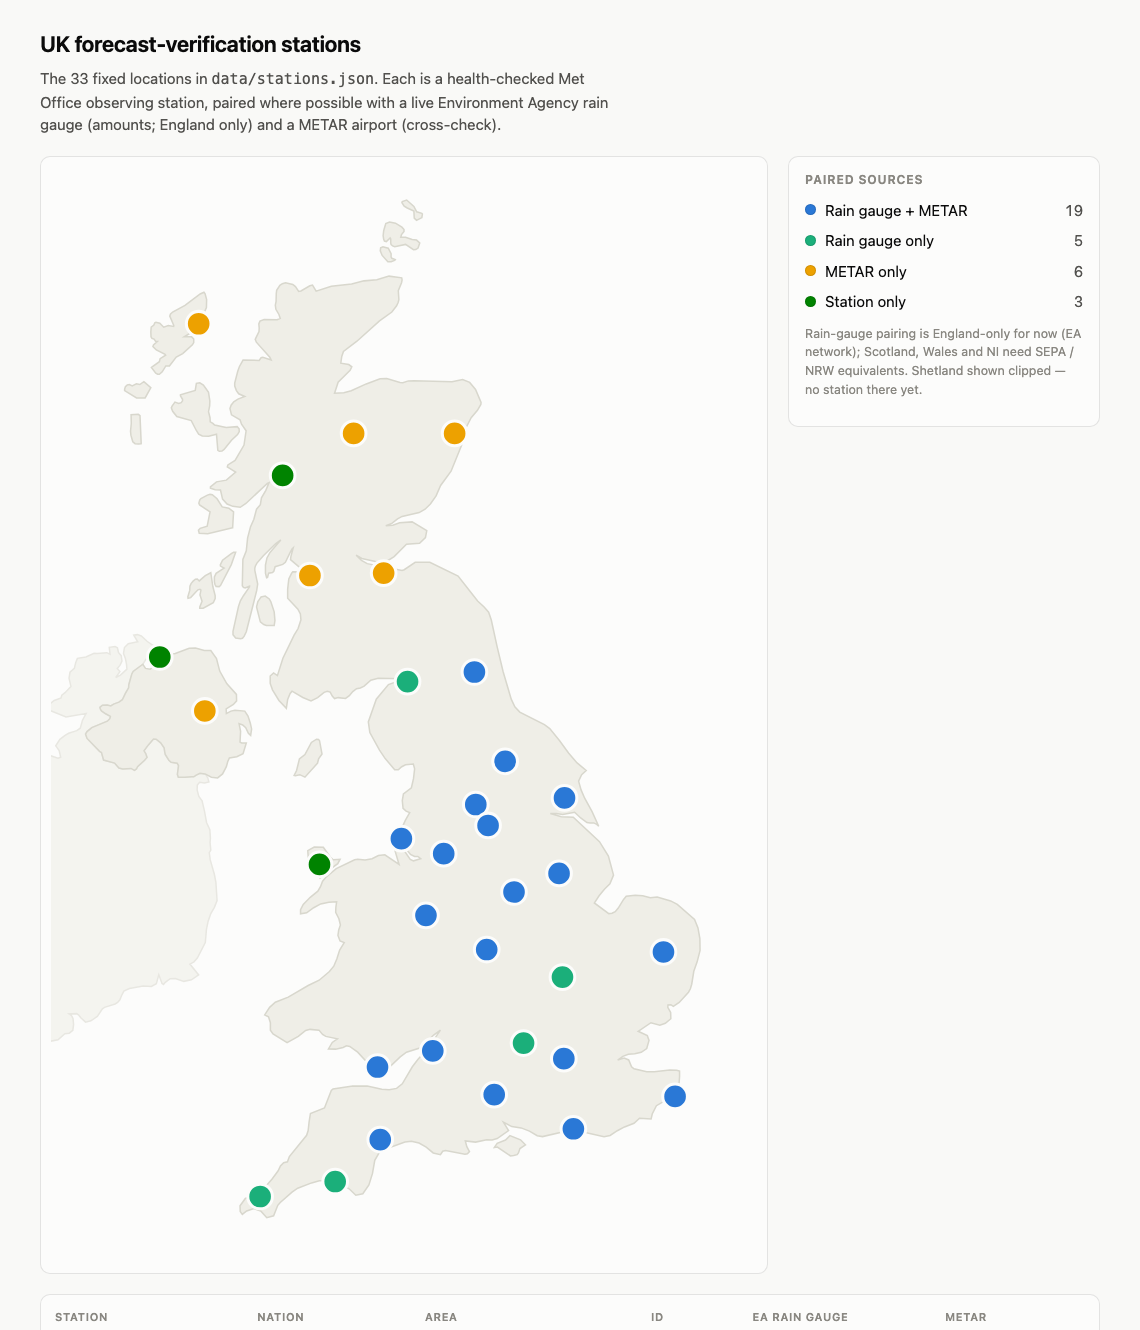
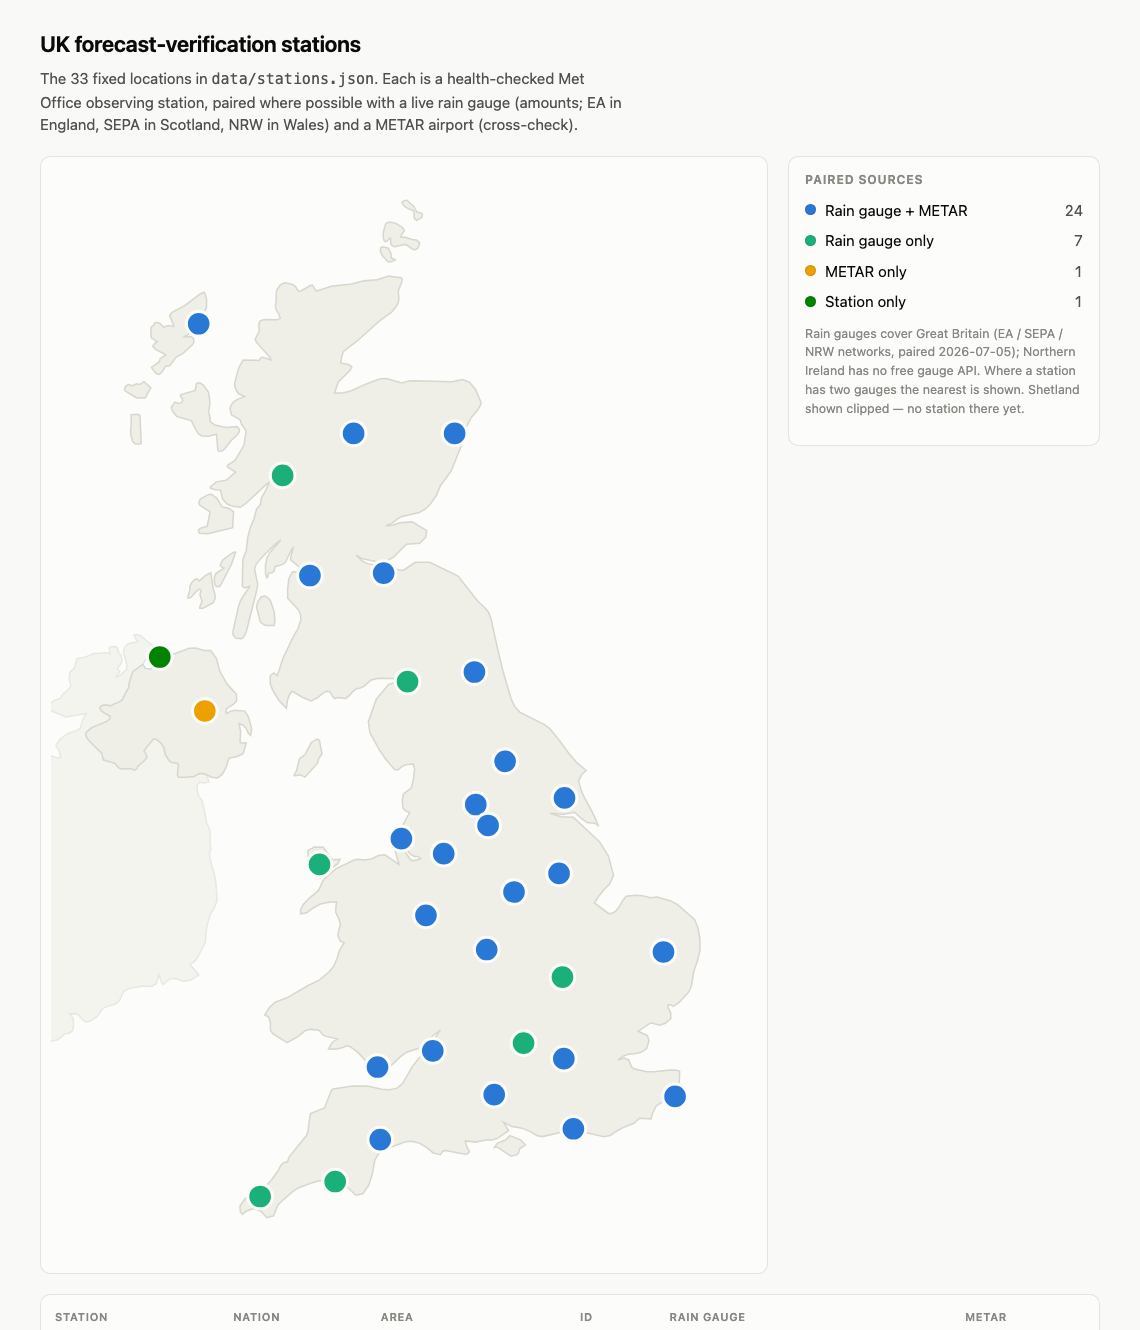
Station map: show SEPA/NRW rain-gauge pairings
Rain-gauge classification now spans all three national networks (EA/SEPA/
NRW); tooltip and table label the network and show the nearest gauge where
a station has two (Cardiff: NRW 4.5 km beats the Somerset EA gauge).
Legend now reads 24 gauge+METAR / 7 gauge-only / Belfast METAR-only /
Derry station-only. Captions updated; HTML + README screenshot
regenerated.

diff --git a/docs/station-map.html b/docs/station-map.html
@@ -67,8 +67,8 @@
   <header>
     <h1>UK forecast-verification stations</h1>
     <p>The 33 fixed locations in <code>data/stations.json</code>. Each is a health-checked Met Office
-       observing station, paired where possible with a live Environment Agency rain gauge
-       (amounts; England only) and a METAR airport (cross-check).</p>
+       observing station, paired where possible with a live rain gauge (amounts; EA in England,
+       SEPA in Scotland, NRW in Wales) and a METAR airport (cross-check).</p>
   </header>
   <div class="layout">
     <div class="card map-card">
@@ -79,8 +79,9 @@
       <div class="card">
         <h2>Paired sources</h2>
         <ul class="leg" id="leg"></ul>
-        <p class="note">Rain-gauge pairing is England-only for now (EA network); Scotland, Wales
-          and NI need SEPA / NRW equivalents. Shetland shown clipped &mdash; no station there yet.</p>
+        <p class="note">Rain gauges cover Great Britain (EA / SEPA / NRW networks, paired
+          2026-07-05); Northern Ireland has no free gauge API. Where a station has two gauges
+          the nearest is shown. Shetland shown clipped &mdash; no station there yet.</p>
       </div>
     </aside>
   </div>
@@ -88,7 +89,7 @@
     <table>
       <thead><tr>
         <th>Station</th><th>Nation</th><th>Area</th><th>ID</th>
-        <th>EA rain gauge</th><th>METAR</th>
+        <th>Rain gauge</th><th>METAR</th>
       </tr></thead>
       <tbody id="rows"></tbody>
     </table>
@@ -96,12 +97,22 @@
 </div></div>
 <script>
 const COAST = {"im":[[[-4.412,54.185],[-4.613,54.058],[-4.696,54.081],[-4.765,54.07],[-4.786,54.074],[-4.747,54.119],[-4.7,54.225],[-4.613,54.266],[-4.509,54.377],[-4.426,54.407],[-4.394,54.404],[-4.376,54.393],[-4.336,54.27],[-4.394,54.225],[-4.412,54.185]]],"uk":[[[-2.669,51.622],[-2.741,51.581],[-2.979,51.539],[-3.08,51.496],[-3.26,51.398],[-3.292,51.39],[-3.562,51.414],[-3.764,51.539],[-3.89,51.591],[-3.944,51.598],[-3.998,51.582],[-4.117,51.567],[-4.235,51.569],[-4.174,51.628],[-4.091,51.661],[-4.275,51.683],[-4.329,51.701],[-4.387,51.74],[-4.531,51.747],[-4.599,51.737],[-4.718,51.683],[-4.901,51.626],[-5.125,51.706],[-5.168,51.74],[-5.168,51.808],[-5.2,51.862],[-5.261,51.879],[-5.182,51.949],[-5.089,51.996],[-4.88,52.043],[-4.559,52.15],[-4.383,52.197],[-4.217,52.277],[-4.149,52.326],[-4.099,52.393],[-4.052,52.475],[-3.98,52.543],[-4.048,52.558],[-4.081,52.608],[-4.07,52.659],[-4.041,52.704],[-4.066,52.761],[-4.117,52.82],[-4.113,52.865],[-4.102,52.916],[-4.228,52.912],[-4.358,52.897],[-4.473,52.862],[-4.585,52.815],[-4.682,52.806],[-4.682,52.845],[-4.639,52.891],[-4.527,52.957],[-4.405,53.013],[-4.361,53.056],[-4.329,53.105],[-4.268,53.145],[-4.109,53.22],[-3.811,53.303],[-3.764,53.308],[-3.645,53.298],[-3.53,53.31],[-3.429,53.341],[-3.325,53.348],[-3.098,53.259],[-3.166,53.395],[-3.065,53.426],[-2.918,53.305],[-2.864,53.292],[-2.749,53.31],[-2.795,53.331],[-2.846,53.332],[-2.914,53.35],[-2.968,53.39],[-3.065,53.513],[-3.058,53.586],[-2.997,53.662],[-2.925,53.733],[-2.983,53.747],[-3.033,53.773],[-3.044,53.845],[-3.026,53.905],[-2.9,53.961],[-2.864,54.044],[-2.846,54.136],[-2.867,54.178],[-2.993,54.171],[-3.055,54.154],[-3.109,54.126],[-3.166,54.127],[-3.321,54.23],[-3.411,54.306],[-3.569,54.468],[-3.591,54.565],[-3.465,54.773],[-3.267,54.907],[-3.037,54.954],[-3.08,54.962],[-3.433,54.964],[-3.551,54.947],[-3.659,54.893],[-3.721,54.876],[-3.782,54.87],[-3.843,54.843],[-3.897,54.805],[-3.958,54.78],[-4.077,54.787],[-4.135,54.778],[-4.174,54.801],[-4.207,54.838],[-4.253,54.846],[-4.304,54.836],[-4.408,54.787],[-4.516,54.758],[-4.646,54.789],[-4.819,54.846],[-4.851,54.825],[-4.891,54.772],[-4.912,54.69],[-5.031,54.761],[-5.135,54.858],[-5.171,54.917],[-5.171,54.985],[-5.117,55.013],[-5.056,54.989],[-4.966,55.15],[-4.786,55.36],[-4.721,55.421],[-4.678,55.501],[-4.685,55.554],[-4.725,55.598],[-4.891,55.699],[-4.891,55.782],[-4.873,55.874],[-4.826,55.929],[-4.808,55.94],[-4.585,55.938],[-4.671,55.968],[-4.844,56.051],[-4.84,56.08],[-4.801,56.159],[-4.819,56.15],[-4.855,56.115],[-4.927,56.028],[-4.97,56.008],[-5.092,55.987],[-5.114,55.945],[-5.135,55.933],[-5.197,55.929],[-5.215,55.89],[-5.229,55.886],[-5.247,55.929],[-5.247,56.001],[-5.222,56.067],[-5.175,56.117],[-4.999,56.233],[-5.085,56.197],[-5.283,56.089],[-5.384,56.02],[-5.409,55.995],[-5.42,55.975],[-5.42,55.952],[-5.373,55.827],[-5.387,55.77],[-5.557,55.39],[-5.589,55.351],[-5.618,55.332],[-5.647,55.327],[-5.729,55.334],[-5.769,55.364],[-5.769,55.395],[-5.751,55.443],[-5.683,55.624],[-5.65,55.674],[-5.603,55.721],[-5.506,55.803],[-5.506,55.808],[-5.575,55.792],[-5.603,55.798],[-5.621,55.813],[-5.611,56.054],[-5.557,56.134],[-5.535,56.251],[-5.488,56.35],[-5.434,56.422],[-5.391,56.514],[-5.33,56.556],[-5.312,56.619],[-5.243,56.686],[-5.189,56.758],[-5.218,56.751],[-5.564,56.567],[-5.654,56.532],[-5.773,56.541],[-5.866,56.561],[-5.938,56.606],[-5.971,56.69],[-6.057,56.692],[-6.133,56.707],[-6.133,56.718],[-6.035,56.764],[-5.877,56.78],[-5.729,56.853],[-5.863,56.903],[-5.852,56.919],[-5.737,56.961],[-5.593,57.103],[-5.56,57.233],[-5.632,57.294],[-5.657,57.334],[-5.794,57.379],[-5.819,57.436],[-5.801,57.468],[-5.758,57.499],[-5.69,57.523],[-5.582,57.547],[-5.679,57.572],[-5.715,57.601],[-5.744,57.643],[-5.744,57.669],[-5.693,57.778],[-5.665,57.823],[-5.607,57.881],[-5.348,57.877],[-5.319,57.903],[-5.29,57.905],[-5.157,57.881],[-5.179,57.907],[-5.395,58.044],[-5.413,58.07],[-5.351,58.143],[-5.348,58.176],[-5.355,58.212],[-5.337,58.238],[-5.269,58.252],[-5.06,58.25],[-5.009,58.263],[-5.031,58.299],[-5.081,58.346],[-5.089,58.384],[-5.078,58.419],[-5.074,58.49],[-5.067,58.52],[-5.017,58.566],[-4.977,58.58],[-4.923,58.589],[-4.808,58.573],[-4.765,58.554],[-4.714,58.509],[-4.678,58.514],[-4.534,58.561],[-4.491,58.568],[-4.433,58.513],[-4.189,58.558],[-3.861,58.577],[-3.663,58.606],[-3.454,58.617],[-3.26,58.65],[-3.055,58.634],[-3.047,58.615],[-3.058,58.589],[-3.109,58.516],[-3.101,58.435],[-3.112,58.408],[-3.137,58.379],[-3.213,58.322],[-3.411,58.24],[-3.775,58.053],[-3.991,57.959],[-4.019,57.914],[-4.034,57.851],[-3.908,57.839],[-3.857,57.818],[-3.886,57.787],[-4.077,57.678],[-4.135,57.577],[-3.987,57.58],[-3.868,57.599],[-3.627,57.662],[-3.404,57.709],[-3.296,57.711],[-3.083,57.674],[-3.037,57.672],[-2.947,57.69],[-2.857,57.691],[-2.245,57.681],[-2.075,57.702],[-1.96,57.676],[-1.867,57.612],[-1.777,57.494],[-1.78,57.474],[-1.834,57.421],[-1.935,57.353],[-2.021,57.259],[-2.047,57.209],[-2.061,57.153],[-2.09,57.103],[-2.259,56.863],[-2.428,56.731],[-2.5,56.636],[-2.594,56.561],[-2.68,56.514],[-2.774,56.483],[-3.047,56.449],[-3.123,56.426],[-3.213,56.384],[-3.31,56.363],[-3.199,56.367],[-3.087,56.389],[-2.885,56.398],[-2.651,56.318],[-2.673,56.254],[-2.767,56.202],[-2.979,56.193],[-3.177,56.08],[-3.267,56.046],[-3.361,56.028],[-3.479,56.034],[-3.695,56.063],[-3.789,56.094],[-3.703,56.044],[-3.609,56.016],[-3.047,55.952],[-3.015,55.959],[-2.839,56.027],[-2.601,56.027],[-2.147,55.903],[-2.018,55.808],[-1.831,55.673],[-1.73,55.619],[-1.654,55.57],[-1.611,55.499],[-1.521,55.259],[-1.424,55.027],[-1.291,54.773],[-1.233,54.704],[-1.154,54.655],[-0.758,54.541],[-0.671,54.504],[-0.517,54.395],[-0.369,54.279],[-0.232,54.19],[-0.085,54.119],[-0.157,54.081],[-0.207,54.022],[-0.167,53.942],[-0.11,53.865],[0.009,53.742],[0.117,53.608],[0.077,53.629],[0.038,53.64],[-0.02,53.638],[-0.074,53.643],[-0.175,53.685],[-0.272,53.737],[-0.463,53.716],[-0.567,53.725],[-0.661,53.725],[-0.484,53.695],[-0.293,53.692],[0.128,53.468],[0.272,53.336],[0.355,53.161],[0.297,53.081],[0.207,53.03],[0.124,52.971],[0.045,52.905],[0.279,52.808],[0.329,52.812],[0.383,52.825],[0.43,52.858],[0.517,52.938],[0.56,52.966],[0.704,52.977],[0.826,52.971],[0.949,52.954],[1.057,52.959],[1.273,52.924],[1.381,52.893],[1.658,52.754],[1.715,52.678],[1.744,52.579],[1.748,52.47],[1.701,52.369],[1.647,52.279],[1.615,52.162],[1.593,52.119],[1.561,52.088],[1.413,51.994],[1.316,51.957],[1.276,51.973],[1.233,51.971],[1.229,51.949],[1.273,51.902],[1.276,51.845],[1.19,51.803],[1.1,51.786],[0.956,51.808],[0.751,51.73],[0.898,51.69],[0.927,51.647],[0.891,51.572],[0.801,51.537],[0.697,51.523],[0.592,51.52],[0.506,51.501],[0.423,51.466],[0.527,51.485],[0.599,51.468],[0.646,51.405],[0.686,51.386],[0.891,51.36],[1.013,51.36],[1.258,51.376],[1.373,51.374],[1.417,51.364],[1.417,51.312],[1.399,51.181],[1.366,51.155],[1.046,51.048],[0.977,50.971],[0.959,50.926],[0.772,50.933],[0.686,50.886],[0.531,50.853],[0.416,50.819],[0.301,50.775],[0.203,50.763],[-0.203,50.815],[-0.452,50.81],[-0.787,50.765],[-0.873,50.774],[-0.999,50.815],[-1.132,50.845],[-1.283,50.857],[-1.417,50.897],[-1.334,50.82],[-1.517,50.747],[-1.6,50.734],[-1.687,50.735],[-1.867,50.714],[-2.032,50.725],[-2.007,50.673],[-1.964,50.628],[-1.996,50.609],[-2.036,50.603],[-2.349,50.638],[-2.396,50.631],[-2.432,50.6],[-2.547,50.616],[-2.659,50.669],[-2.777,50.706],[-2.9,50.723],[-3.001,50.716],[-3.404,50.633],[-3.487,50.548],[-3.526,50.428],[-3.584,50.322],[-3.681,50.241],[-3.793,50.228],[-3.901,50.286],[-4.102,50.348],[-4.174,50.392],[-4.196,50.393],[-4.217,50.378],[-4.297,50.359],[-4.379,50.359],[-4.505,50.341],[-4.729,50.291],[-4.819,50.256],[-5.009,50.161],[-5.049,50.135],[-5.117,50.039],[-5.225,50.022],[-5.323,50.083],[-5.434,50.105],[-5.549,50.083],[-5.621,50.051],[-5.654,50.077],[-5.657,50.131],[-5.571,50.197],[-5.341,50.246],[-5.143,50.374],[-5.042,50.452],[-5.006,50.496],[-4.955,50.524],[-4.894,50.534],[-4.862,50.583],[-4.585,50.777],[-4.559,50.82],[-4.545,50.9],[-4.523,50.977],[-4.297,51.027],[-4.189,51.188],[-4.16,51.201],[-3.843,51.23],[-3.609,51.228],[-3.375,51.197],[-3.256,51.194],[-3.137,51.206],[-3.044,51.249],[-2.882,51.405],[-2.792,51.475],[-2.687,51.537],[-2.59,51.609],[-2.432,51.74],[-2.54,51.695],[-2.669,51.622]],[[-4.196,53.322],[-4.156,53.303],[-4.048,53.306],[-4.084,53.265],[-4.199,53.218],[-4.279,53.173],[-4.372,53.134],[-4.419,53.178],[-4.473,53.176],[-4.552,53.261],[-4.567,53.386],[-4.462,53.419],[-4.315,53.417],[-4.196,53.322]],[[-1.042,60.514],[-1.067,60.502],[-1.165,60.605],[-1.093,60.721],[-1.006,60.717],[-0.992,60.686],[-0.999,60.658],[-1.046,60.655],[-1.049,60.646],[-1.035,60.592],[-1.035,60.53],[-1.042,60.514]],[[-1.309,60.537],[-1.287,60.467],[-1.237,60.485],[-1.157,60.417],[-1.118,60.417],[-1.053,60.445],[-1.067,60.382],[-1.132,60.207],[-1.154,60.177],[-1.165,60.124],[-1.179,60.113],[-1.201,60.007],[-1.244,59.971],[-1.283,59.888],[-1.298,59.879],[-1.355,59.912],[-1.298,60.04],[-1.276,60.115],[-1.291,60.153],[-1.323,60.188],[-1.409,60.19],[-1.481,60.174],[-1.496,60.195],[-1.499,60.223],[-1.517,60.231],[-1.615,60.23],[-1.64,60.236],[-1.661,60.263],[-1.665,60.283],[-1.575,60.299],[-1.496,60.292],[-1.373,60.334],[-1.449,60.469],[-1.55,60.481],[-1.571,60.495],[-1.553,60.518],[-1.499,60.53],[-1.413,60.599],[-1.363,60.61],[-1.301,60.608],[-1.309,60.537]],[[-0.776,60.813],[-0.776,60.801],[-0.826,60.716],[-0.826,60.684],[-0.909,60.688],[-0.923,60.697],[-0.938,60.745],[-0.927,60.797],[-0.916,60.811],[-0.891,60.816],[-0.866,60.806],[-0.823,60.832],[-0.801,60.832],[-0.776,60.813]],[[-3.166,58.794],[-3.224,58.782],[-3.278,58.782],[-3.368,58.839],[-3.4,58.882],[-3.393,58.91],[-3.357,58.919],[-3.271,58.905],[-3.227,58.856],[-3.224,58.825],[-3.213,58.813],[-3.159,58.801],[-3.166,58.794]],[[-3.058,59.03],[-3.069,59.006],[-2.993,59.006],[-2.885,58.985],[-2.817,58.981],[-2.763,58.955],[-2.792,58.907],[-2.828,58.893],[-2.864,58.891],[-2.993,58.94],[-3.166,58.919],[-3.202,58.926],[-3.224,58.938],[-3.231,58.955],[-3.231,58.99],[-3.242,59.0],[-3.303,58.967],[-3.332,58.971],[-3.346,58.987],[-3.353,59.02],[-3.346,59.065],[-3.31,59.131],[-3.249,59.145],[-3.155,59.136],[-3.051,59.099],[-3.019,59.077],[-3.019,59.058],[-3.058,59.03]],[[-2.731,59.186],[-2.817,59.162],[-2.853,59.183],[-2.86,59.247],[-2.965,59.275],[-3.015,59.292],[-3.051,59.323],[-3.044,59.334],[-2.975,59.348],[-2.86,59.289],[-2.813,59.24],[-2.731,59.226],[-2.72,59.219],[-2.731,59.186]],[[-5.107,55.449],[-5.233,55.449],[-5.276,55.457],[-5.33,55.482],[-5.391,55.619],[-5.369,55.667],[-5.344,55.69],[-5.319,55.709],[-5.251,55.718],[-5.186,55.692],[-5.161,55.667],[-5.107,55.574],[-5.096,55.494],[-5.107,55.449]],[[-5.776,56.344],[-6.176,56.289],[-6.313,56.294],[-6.327,56.322],[-6.298,56.339],[-6.187,56.357],[-6.14,56.49],[-6.309,56.553],[-6.32,56.57],[-6.305,56.6],[-6.287,56.612],[-6.183,56.643],[-6.14,56.65],[-6.104,56.646],[-6.028,56.61],[-5.945,56.535],[-5.837,56.523],[-5.762,56.49],[-5.776,56.344]],[[-6.129,55.931],[-6.093,55.803],[-6.057,55.723],[-6.057,55.695],[-6.089,55.657],[-6.251,55.607],[-6.305,55.607],[-6.305,55.619],[-6.269,55.671],[-6.302,55.728],[-6.287,55.773],[-6.302,55.78],[-6.334,55.775],[-6.453,55.704],[-6.493,55.697],[-6.496,55.711],[-6.467,55.77],[-6.464,55.808],[-6.446,55.832],[-6.413,55.855],[-6.374,55.872],[-6.345,55.874],[-6.313,55.857],[-6.215,55.905],[-6.129,55.931]],[[-5.971,55.815],[-5.992,55.804],[-6.043,55.806],[-6.061,55.824],[-6.071,55.848],[-6.071,55.893],[-6.043,55.926],[-5.913,55.975],[-5.971,55.992],[-5.974,56.004],[-5.938,56.046],[-5.798,56.108],[-5.762,56.12],[-5.726,56.119],[-5.798,56.006],[-5.971,55.815]],[[-6.197,58.363],[-6.327,58.19],[-6.374,58.185],[-6.421,58.141],[-6.554,58.093],[-6.435,58.093],[-6.403,58.075],[-6.403,58.042],[-6.424,58.021],[-6.579,57.941],[-6.683,57.91],[-6.795,57.827],[-6.853,57.827],[-6.91,57.773],[-6.957,57.751],[-6.982,57.751],[-7.015,57.761],[-7.083,57.813],[-6.957,57.865],[-6.943,57.893],[-6.856,57.924],[-6.863,57.933],[-7.004,57.974],[-7.058,58.004],[-7.051,58.018],[-6.986,58.051],[-7.018,58.054],[-7.04,58.072],[-7.076,58.079],[-7.09,58.096],[-7.094,58.138],[-7.087,58.183],[-7.043,58.202],[-7.029,58.223],[-7.011,58.228],[-6.95,58.218],[-6.885,58.183],[-6.813,58.197],[-6.727,58.19],[-6.723,58.198],[-6.788,58.283],[-6.777,58.301],[-6.741,58.322],[-6.543,58.382],[-6.298,58.487],[-6.237,58.502],[-6.219,58.488],[-6.194,58.435],[-6.197,58.363]],[[-6.143,57.506],[-6.147,57.461],[-6.165,57.409],[-6.14,57.353],[-6.136,57.315],[-6.093,57.301],[-6.068,57.284],[-5.881,57.263],[-5.704,57.27],[-5.672,57.252],[-5.668,57.226],[-5.697,57.198],[-5.794,57.146],[-5.913,57.063],[-5.949,57.046],[-5.989,57.044],[-6.014,57.053],[-6.035,57.202],[-6.161,57.183],[-6.266,57.185],[-6.323,57.202],[-6.363,57.237],[-6.442,57.327],[-6.676,57.363],[-6.741,57.412],[-6.763,57.443],[-6.752,57.459],[-6.705,57.495],[-6.644,57.483],[-6.604,57.49],[-6.583,57.507],[-6.583,57.521],[-6.615,57.553],[-6.615,57.563],[-6.377,57.603],[-6.359,57.667],[-6.305,57.672],[-6.248,57.652],[-6.165,57.586],[-6.143,57.506]],[[-7.205,57.683],[-7.094,57.627],[-7.184,57.534],[-7.321,57.534],[-7.515,57.601],[-7.515,57.615],[-7.501,57.636],[-7.472,57.653],[-7.439,57.657],[-7.393,57.645],[-7.324,57.664],[-7.27,57.657],[-7.205,57.683]],[[-7.249,57.115],[-7.292,57.11],[-7.346,57.115],[-7.382,57.131],[-7.414,57.192],[-7.421,57.23],[-7.407,57.299],[-7.411,57.381],[-7.295,57.384],[-7.267,57.372],[-7.249,57.126],[-7.249,57.115]],[[-6.219,54.089],[-6.302,54.094],[-6.363,54.077],[-6.403,54.062],[-6.439,54.063],[-6.547,54.058],[-6.651,54.058],[-6.665,54.084],[-6.647,54.164],[-6.669,54.185],[-6.766,54.195],[-6.802,54.214],[-6.86,54.268],[-6.871,54.294],[-6.878,54.329],[-6.935,54.374],[-7.007,54.407],[-7.051,54.409],[-7.133,54.355],[-7.202,54.301],[-7.177,54.275],[-7.155,54.24],[-7.195,54.214],[-7.306,54.155],[-7.324,54.133],[-7.357,54.121],[-7.411,54.138],[-7.544,54.134],[-7.605,54.143],[-7.677,54.187],[-7.853,54.216],[-7.886,54.284],[-7.918,54.296],[-8.12,54.414],[-8.145,54.454],[-8.12,54.476],[-8.044,54.513],[-7.792,54.572],[-7.753,54.594],[-7.745,54.615],[-7.821,54.64],[-7.886,54.666],[-7.907,54.683],[-7.911,54.699],[-7.871,54.718],[-7.796,54.719],[-7.738,54.711],[-7.691,54.728],[-7.605,54.745],[-7.551,54.768],[-7.501,54.825],[-7.45,54.877],[-7.447,54.905],[-7.4,55.004],[-7.378,55.028],[-7.22,55.093],[-7.18,55.056],[-7.101,55.048],[-7.029,55.081],[-6.946,55.183],[-6.889,55.188],[-6.824,55.181],[-6.698,55.193],[-6.475,55.24],[-6.374,55.242],[-6.233,55.218],[-6.129,55.218],[-6.035,55.145],[-5.985,55.03],[-5.87,54.916],[-5.715,54.817],[-5.711,54.758],[-5.765,54.725],[-5.881,54.685],[-5.877,54.641],[-5.805,54.664],[-5.74,54.673],[-5.582,54.664],[-5.528,54.619],[-5.492,54.555],[-5.47,54.501],[-5.485,54.442],[-5.524,54.461],[-5.567,54.513],[-5.614,54.537],[-5.672,54.549],[-5.647,54.478],[-5.657,54.381],[-5.632,54.372],[-5.557,54.371],[-5.607,54.273],[-5.708,54.246],[-5.827,54.235],[-5.855,54.2],[-5.877,54.155],[-5.938,54.089],[-6.017,54.051],[-6.118,54.058],[-6.219,54.089]],[[-1.064,50.69],[-1.15,50.655],[-1.175,50.616],[-1.197,50.6],[-1.251,50.59],[-1.305,50.588],[-1.514,50.669],[-1.564,50.666],[-1.517,50.704],[-1.384,50.734],[-1.312,50.774],[-1.143,50.735],[-1.064,50.69]]],"ie":[[[-7.22,55.093],[-7.378,55.028],[-7.4,55.004],[-7.447,54.905],[-7.45,54.877],[-7.501,54.825],[-7.551,54.768],[-7.605,54.745],[-7.691,54.728],[-7.738,54.711],[-7.796,54.719],[-7.871,54.718],[-7.911,54.699],[-7.907,54.683],[-7.886,54.666],[-7.821,54.64],[-7.745,54.615],[-7.753,54.594],[-7.792,54.572],[-8.044,54.513],[-8.12,54.476],[-8.145,54.454],[-8.12,54.414],[-7.918,54.296],[-7.886,54.284],[-7.853,54.216],[-7.677,54.187],[-7.605,54.143],[-7.544,54.134],[-7.411,54.138],[-7.357,54.121],[-7.324,54.133],[-7.306,54.155],[-7.195,54.214],[-7.155,54.24],[-7.177,54.275],[-7.202,54.301],[-7.133,54.355],[-7.051,54.409],[-7.007,54.407],[-6.935,54.374],[-6.878,54.329],[-6.871,54.294],[-6.86,54.268],[-6.802,54.214],[-6.766,54.195],[-6.669,54.185],[-6.647,54.164],[-6.665,54.084],[-6.651,54.058],[-6.547,54.058],[-6.439,54.063],[-6.403,54.062],[-6.363,54.077],[-6.302,54.094],[-6.219,54.089],[-6.176,54.053],[-6.158,54.016],[-6.23,54.004],[-6.309,54.011],[-6.345,53.987],[-6.349,53.942],[-6.32,53.883],[-6.269,53.841],[-6.23,53.746],[-6.194,53.641],[-6.143,53.577],[-6.133,53.499],[-6.14,53.461],[-6.129,53.391],[-6.151,53.367],[-6.136,53.301],[-6.071,53.166],[-6.046,53.091],[-6.028,52.928],[-6.071,52.865],[-6.129,52.808],[-6.169,52.739],[-6.197,52.664],[-6.215,52.543],[-6.345,52.402],[-6.399,52.367],[-6.464,52.345],[-6.323,52.247],[-6.439,52.202],[-6.561,52.188],[-6.698,52.213],[-6.781,52.211],[-6.86,52.178],[-6.889,52.159],[-6.914,52.169],[-6.964,52.249],[-7.004,52.166],[-7.083,52.14],[-7.216,52.145],[-7.439,52.122],[-7.526,52.098],[-7.562,52.062],[-7.591,52.018],[-7.627,51.994],[-7.666,51.98],[-7.839,51.949],[-7.871,51.935],[-7.954,51.865],[-8.059,51.826],[-8.145,51.813],[-8.221,51.853],[-8.253,51.878],[-8.289,51.892],[-8.408,51.888],[-8.372,51.876],[-8.347,51.848],[-8.336,51.793],[-8.35,51.739],[-8.408,51.713],[-8.476,51.707],[-8.588,51.652],[-8.735,51.636],[-8.815,51.584],[-9.297,51.497],[-9.322,51.497],[-9.391,51.52],[-9.463,51.529],[-9.535,51.522],[-9.736,51.473],[-9.837,51.484],[-9.711,51.603],[-9.542,51.664],[-9.524,51.681],[-9.581,51.688],[-9.898,51.647],[-10.01,51.61],[-10.122,51.6],[-10.071,51.655],[-9.927,51.73],[-9.851,51.767],[-9.801,51.78],[-9.751,51.824],[-9.599,51.874],[-10.086,51.772],[-10.212,51.784],[-10.24,51.812],[-10.341,51.799],[-10.377,51.869],[-10.233,51.975],[-10.147,52.02],[-10.042,52.044],[-9.945,52.079],[-9.909,52.122],[-9.956,52.136],[-10.251,52.126],[-10.392,52.135],[-10.384,52.169],[-10.356,52.207],[-10.212,52.272],[-10.132,52.282],[-10.06,52.275],[-9.992,52.26],[-9.938,52.237],[-9.772,52.251],[-9.841,52.291],[-9.851,52.376],[-9.905,52.404],[-9.837,52.442],[-9.761,52.466],[-9.632,52.548],[-9.585,52.56],[-9.329,52.579],[-9.056,52.621],[-8.782,52.68],[-8.923,52.713],[-8.991,52.756],[-9.099,52.667],[-9.175,52.635],[-9.394,52.617],[-9.463,52.628],[-9.56,52.654],[-9.592,52.643],[-9.621,52.622],[-9.765,52.581],[-9.916,52.57],[-9.74,52.648],[-9.517,52.78],[-9.466,52.824],[-9.394,52.897],[-9.416,52.928],[-9.463,52.947],[-9.301,53.098],[-9.243,53.124],[-9.139,53.129],[-9.059,53.154],[-9.027,53.154],[-8.998,53.162],[-8.93,53.207],[-9.034,53.235],[-9.139,53.251],[-9.47,53.235],[-9.513,53.239],[-9.556,53.253],[-9.581,53.272],[-9.603,53.324],[-9.625,53.334],[-9.7,53.334],[-9.772,53.319],[-9.826,53.32],[-9.877,53.343],[-9.794,53.395],[-9.898,53.407],[-10.003,53.397],[-10.093,53.412],[-10.093,53.445],[-10.053,53.478],[-10.107,53.509],[-10.118,53.549],[-10.06,53.568],[-10.003,53.562],[-9.877,53.591],[-9.722,53.605],[-9.855,53.633],[-9.909,53.657],[-9.913,53.695],[-9.902,53.726],[-9.743,53.782],[-9.578,53.805],[-9.592,53.841],[-9.578,53.879],[-9.747,53.891],[-9.913,53.864],[-9.895,53.938],[-9.855,54.004],[-9.848,54.048],[-9.855,54.094],[-9.934,54.075],[-9.945,54.141],[-9.977,54.187],[-10.093,54.155],[-10.089,54.216],[-10.057,54.258],[-9.995,54.277],[-9.934,54.268],[-9.826,54.268],[-9.718,54.301],[-9.563,54.308],[-9.315,54.299],[-9.146,54.209],[-9.103,54.225],[-9.034,54.282],[-9.002,54.287],[-8.746,54.263],[-8.588,54.232],[-8.545,54.242],[-8.57,54.303],[-8.624,54.346],[-8.555,54.404],[-8.473,54.442],[-8.415,54.461],[-8.285,54.485],[-8.231,54.508],[-8.192,54.581],[-8.134,54.641],[-8.458,54.61],[-8.764,54.681],[-8.714,54.732],[-8.649,54.761],[-8.537,54.784],[-8.527,54.81],[-8.473,54.832],[-8.379,54.89],[-8.411,54.964],[-8.393,55.02],[-8.325,55.056],[-8.303,55.108],[-8.275,55.147],[-8.138,55.16],[-8.005,55.195],[-7.958,55.192],[-7.803,55.2],[-7.749,55.186],[-7.763,55.249],[-7.666,55.256],[-7.63,55.244],[-7.612,55.2],[-7.569,55.171],[-7.558,55.122],[-7.587,55.084],[-7.634,55.055],[-7.591,55.025],[-7.659,54.971],[-7.583,54.994],[-7.479,55.048],[-7.483,55.091],[-7.501,55.145],[-7.533,55.193],[-7.519,55.247],[-7.457,55.282],[-7.303,55.299],[-7.367,55.36],[-7.31,55.365],[-7.245,55.353],[-7.155,55.304],[-7.061,55.268],[-6.961,55.239],[-7.058,55.178],[-7.173,55.138],[-7.22,55.093]]]};
-const STATIONS = [{"id":"gfnmmy","seed_city":"Aberdeen","lat":57.2086,"lon":-2.2028,"area":"Aberdeen","region":"gr","country":"Scotland","ea_gauge":null,"metar":{"icao":"EGPD","distance_km":0.8}},{"id":"gckyur","seed_city":"Bangor","lat":53.259,"lon":-4.3781,"area":"Isle of Anglesey","region":"wl","country":"Wales","ea_gauge":null,"metar":null},{"id":"gcewfr","seed_city":"Belfast","lat":54.6652,"lon":-6.2238,"area":"County Antrim","region":"ni","country":"Northern Ireland","ea_gauge":null,"metar":{"icao":"EGAA","distance_km":1.0}},{"id":"gcqf99","seed_city":"Birmingham","lat":52.4789,"lon":-1.6864,"area":"Warwickshire","region":"wm","country":"England","ea_gauge":{"station_reference":"3340","lat":52.446032,"lon":-1.746153,"distance_km":5.5},"metar":{"icao":"EGBB","distance_km":5.0}},{"id":"gcpc1q","seed_city":"Brighton","lat":50.8365,"lon":-0.2911,"area":"West Sussex","region":"se","country":"England","ea_gauge":{"station_reference":"2321SO","lat":50.83729,"lon":-0.377415,"distance_km":6.1},"metar":{"icao":"EGKA","distance_km":0.4}},{"id":"gcnjmb","seed_city":"Bristol","lat":51.5506,"lon":-2.5543,"area":"South Gloucestershire","region":"sw","country":"England","ea_gauge":{"station_reference":"E6340","lat":51.553112,"lon":-2.55595,"distance_km":0.3},"metar":{"icao":"EGGD","distance_km":21.9}},{"id":"gcr9j7","seed_city":"Cambridge","lat":52.2263,"lon":-0.4669,"area":"Bedford","region":"ee","country":"England","ea_gauge":{"station_reference":"E5731","lat":52.226854,"lon":-0.464875,"distance_km":0.2},"metar":null},{"id":"gcjs3t","seed_city":"Cardiff","lat":51.4023,"lon":-3.4442,"area":"Vale of Glamorgan","region":"wl","country":"Wales","ea_gauge":{"station_reference":"51124","lat":51.207152,"lon":-3.536655,"distance_km":22.6},"metar":{"icao":"EGFF","distance_km":7.0}},{"id":"gcvbs8","seed_city":"Carlisle","lat":54.9344,"lon":-2.9608,"area":"Cumbria","region":"nw","country":"England","ea_gauge":{"station_reference":"606299","lat":54.899013,"lon":-2.953493,"distance_km":4.0},"metar":null},{"id":"gcg1cc","seed_city":"Derry","lat":55.1596,"lon":-6.9489,"area":"County Londonderry","region":"ni","country":"Northern Ireland","ea_gauge":null,"metar":null},{"id":"u10fys","seed_city":"Dover","lat":51.1331,"lon":1.3458,"area":"Kent","region":"se","country":"England","ea_gauge":{"station_reference":"1403SE","lat":51.130603,"lon":1.318089,"distance_km":2.0},"metar":{"icao":"EGMD","distance_km":34.6}},{"id":"gcvw5v","seed_city":"Edinburgh","lat":55.9286,"lon":-3.3453,"area":"Edinburgh","region":"dg","country":"Scotland","ea_gauge":null,"metar":{"icao":"EGPH","distance_km":2.9}},{"id":"gcj8ds","seed_city":"Exeter","lat":50.7376,"lon":-3.4003,"area":"Devon","region":"sw","country":"England","ea_gauge":{"station_reference":"45184","lat":50.728619,"lon":-3.475599,"distance_km":5.4},"metar":{"icao":"EGTE","distance_km":1.0}},{"id":"gfh7qb","seed_city":"Fort William","lat":56.824,"lon":-4.9713,"area":"Highland","region":"he","country":"Scotland","ea_gauge":null,"metar":null},{"id":"gcuy0c","seed_city":"Glasgow","lat":55.9067,"lon":-4.5319,"area":"Renfrewshire","region":"st","country":"Scotland","ea_gauge":null,"metar":{"icao":"EGPF","distance_km":7.3}},{"id":"gcxdqn","seed_city":"Hull","lat":53.8687,"lon":-0.434,"area":"East Riding of Yorkshire","region":"yh","country":"England","ea_gauge":{"station_reference":"041238","lat":53.867134,"lon":-0.367439,"distance_km":4.4},"metar":{"icao":"EGNJ","distance_km":33.2}},{"id":"gfjm2y","seed_city":"Inverness","lat":57.2086,"lon":-3.8287,"area":"Highland","region":"he","country":"Scotland","ea_gauge":null,"metar":{"icao":"EGPE","distance_km":39.4}},{"id":"gcwdje","seed_city":"Leeds","lat":53.8083,"lon":-1.8622,"area":"West Yorkshire","region":"yh","country":"England","ea_gauge":{"station_reference":"075497","lat":53.815189,"lon":-1.823015,"distance_km":2.7},"metar":{"icao":"EGNM","distance_km":14.7}},{"id":"gcrws0","seed_city":"Lincoln","lat":53.1766,"lon":-0.5219,"area":"Lincolnshire","region":"em","country":"England","ea_gauge":{"station_reference":"E5721","lat":53.175194,"lon":-0.524002,"distance_km":0.2},"metar":{"icao":"EGXW","distance_km":1.2}},{"id":"gctb66","seed_city":"Liverpool","lat":53.4952,"lon":-3.0597,"area":"Merseyside","region":"nw","country":"England","ea_gauge":{"station_reference":"550148","lat":53.410189,"lon":-3.10942,"distance_km":10.0},"metar":{"icao":"EGGP","distance_km":22.7}},{"id":"gcpsvg","seed_city":"London-Heathrow","lat":51.4792,"lon":-0.4449,"area":"Greater London","region":"se","country":"England","ea_gauge":{"station_reference":"247540TP","lat":51.479469,"lon":-0.451216,"distance_km":0.4},"metar":{"icao":"EGLL","distance_km":1.2}},{"id":"gcqr9c","seed_city":"Manchester","lat":53.3578,"lon":-2.3785,"area":"Cheshire East","region":"nw","country":"England","ea_gauge":{"station_reference":"560557","lat":53.431001,"lon":-2.352893,"distance_km":8.3},"metar":{"icao":"EGCC","distance_km":6.9}},{"id":"gcy9j0","seed_city":"Newcastle","lat":55.0223,"lon":-1.8842,"area":"Northumberland","region":"ne","country":"England","ea_gauge":{"station_reference":"017220","lat":55.01952,"lon":-1.881881,"distance_km":0.3},"metar":{"icao":"EGNT","distance_km":12.4}},{"id":"u12f6m","seed_city":"Norwich","lat":52.457,"lon":1.1591,"area":"Norfolk","region":"ee","country":"England","ea_gauge":{"station_reference":"E24756","lat":52.494069,"lon":1.157581,"distance_km":4.1},"metar":{"icao":"EGSH","distance_km":25.7}},{"id":"gcrje9","seed_city":"Nottingham","lat":53.0063,"lon":-1.2469,"area":"Nottinghamshire","region":"em","country":"England","ea_gauge":{"station_reference":"3766","lat":53.005795,"lon":-1.251101,"distance_km":0.3},"metar":{"icao":"EGNX","distance_km":20.2}},{"id":"gcpjxj","seed_city":"Oxford","lat":51.622,"lon":-1.0931,"area":"Oxfordshire","region":"se","country":"England","ea_gauge":{"station_reference":"264254TP","lat":51.617635,"lon":-1.115281,"distance_km":1.6},"metar":null},{"id":"gbujwt","seed_city":"Penzance","lat":50.2158,"lon":-5.3339,"area":"Cornwall","region":"sw","country":"England","ea_gauge":{"station_reference":"48102","lat":50.223298,"lon":-5.305022,"distance_km":2.2},"metar":null},{"id":"gbvn6n","seed_city":"Plymouth","lat":50.3531,"lon":-4.1254,"area":"Plymouth","region":"sw","country":"England","ea_gauge":{"station_reference":"47155","lat":50.416367,"lon":-4.126049,"distance_km":7.0},"metar":null},{"id":"gcwc40","seed_city":"Sheffield","lat":53.616,"lon":-1.6644,"area":"West Yorkshire","region":"yh","country":"England","ea_gauge":{"station_reference":"078922","lat":53.60567,"lon":-1.766463,"distance_km":6.8},"metar":{"icao":"EGNM","distance_km":27.8}},{"id":"gcqh76","seed_city":"Shrewsbury","lat":52.7921,"lon":-2.6642,"area":"Shropshire","region":"wm","country":"England","ea_gauge":{"station_reference":"1121","lat":52.718322,"lon":-2.717219,"distance_km":8.9},"metar":{"icao":"EGOS","distance_km":0.7}},{"id":"gcnfur","seed_city":"Southampton","lat":51.1496,"lon":-1.5656,"area":"Hampshire","region":"se","country":"England","ea_gauge":{"station_reference":"E13580","lat":51.103128,"lon":-1.562184,"distance_km":5.2},"metar":{"icao":"EGHI","distance_km":26.5}},{"id":"gf7e0j","seed_city":"Stornoway","lat":58.2138,"lon":-6.3226,"area":"Na h-Eileanan Siar","region":"he","country":"Scotland","ea_gauge":null,"metar":{"icao":"EGPO","distance_km":0.5}},{"id":"gcxh27","seed_city":"York","lat":54.2038,"lon":-1.3898,"area":"North Yorkshire","region":"yh","country":"England","ea_gauge":{"station_reference":"054604","lat":54.32908,"lon":-1.456389,"distance_km":14.6},"metar":{"icao":"EGNV","distance_km":34.1}}];
+const STATIONS = [{"id":"gfnmmy","seed_city":"Aberdeen","lat":57.2086,"lon":-2.2028,"area":"Aberdeen","region":"gr","country":"Scotland","ea_gauge":null,"metar":{"icao":"EGPD","distance_km":0.8},"sepa_gauge":{"station_no":"115250","name":"Westhill","ts_id":"51642010","lat":57.147569,"lon":-2.291989,"distance_km":8.7},"nrw_gauge":null},{"id":"gckyur","seed_city":"Bangor","lat":53.259,"lon":-4.3781,"area":"Isle of Anglesey","region":"wl","country":"Wales","ea_gauge":null,"metar":null,"sepa_gauge":null,"nrw_gauge":{"station_id":1027,"name":"Llyn Cefni","parameter":10122,"lat":53.268208,"lon":-4.333276,"distance_km":3.2}},{"id":"gcewfr","seed_city":"Belfast","lat":54.6652,"lon":-6.2238,"area":"County Antrim","region":"ni","country":"Northern Ireland","ea_gauge":null,"metar":{"icao":"EGAA","distance_km":1.0},"sepa_gauge":null,"nrw_gauge":null},{"id":"gcqf99","seed_city":"Birmingham","lat":52.4789,"lon":-1.6864,"area":"Warwickshire","region":"wm","country":"England","ea_gauge":{"station_reference":"3340","lat":52.446032,"lon":-1.746153,"distance_km":5.5},"metar":{"icao":"EGBB","distance_km":5.0},"sepa_gauge":null,"nrw_gauge":null},{"id":"gcpc1q","seed_city":"Brighton","lat":50.8365,"lon":-0.2911,"area":"West Sussex","region":"se","country":"England","ea_gauge":{"station_reference":"2321SO","lat":50.83729,"lon":-0.377415,"distance_km":6.1},"metar":{"icao":"EGKA","distance_km":0.4},"sepa_gauge":null,"nrw_gauge":null},{"id":"gcnjmb","seed_city":"Bristol","lat":51.5506,"lon":-2.5543,"area":"South Gloucestershire","region":"sw","country":"England","ea_gauge":{"station_reference":"E6340","lat":51.553112,"lon":-2.55595,"distance_km":0.3},"metar":{"icao":"EGGD","distance_km":21.9},"sepa_gauge":null,"nrw_gauge":null},{"id":"gcr9j7","seed_city":"Cambridge","lat":52.2263,"lon":-0.4669,"area":"Bedford","region":"ee","country":"England","ea_gauge":{"station_reference":"E5731","lat":52.226854,"lon":-0.464875,"distance_km":0.2},"metar":null,"sepa_gauge":null,"nrw_gauge":null},{"id":"gcjs3t","seed_city":"Cardiff","lat":51.4023,"lon":-3.4442,"area":"Vale of Glamorgan","region":"wl","country":"Wales","ea_gauge":{"station_reference":"51124","lat":51.207152,"lon":-3.536655,"distance_km":22.6},"metar":{"icao":"EGFF","distance_km":7.0},"sepa_gauge":null,"nrw_gauge":{"station_id":1137,"name":"Llantwit Major","parameter":10232,"lat":51.414662,"lon":-3.505849,"distance_km":4.5}},{"id":"gcvbs8","seed_city":"Carlisle","lat":54.9344,"lon":-2.9608,"area":"Cumbria","region":"nw","country":"England","ea_gauge":{"station_reference":"606299","lat":54.899013,"lon":-2.953493,"distance_km":4.0},"metar":null,"sepa_gauge":null,"nrw_gauge":null},{"id":"gcg1cc","seed_city":"Derry","lat":55.1596,"lon":-6.9489,"area":"County Londonderry","region":"ni","country":"Northern Ireland","ea_gauge":null,"metar":null,"sepa_gauge":null,"nrw_gauge":null},{"id":"u10fys","seed_city":"Dover","lat":51.1331,"lon":1.3458,"area":"Kent","region":"se","country":"England","ea_gauge":{"station_reference":"1403SE","lat":51.130603,"lon":1.318089,"distance_km":2.0},"metar":{"icao":"EGMD","distance_km":34.6},"sepa_gauge":null,"nrw_gauge":null},{"id":"gcvw5v","seed_city":"Edinburgh","lat":55.9286,"lon":-3.3453,"area":"Edinburgh","region":"dg","country":"Scotland","ea_gauge":null,"metar":{"icao":"EGPH","distance_km":2.9},"sepa_gauge":{"station_no":"15196","name":"Gogarbank","ts_id":"56594010","lat":55.92834,"lon":-3.342743,"distance_km":0.2},"nrw_gauge":null},{"id":"gcj8ds","seed_city":"Exeter","lat":50.7376,"lon":-3.4003,"area":"Devon","region":"sw","country":"England","ea_gauge":{"station_reference":"45184","lat":50.728619,"lon":-3.475599,"distance_km":5.4},"metar":{"icao":"EGTE","distance_km":1.0},"sepa_gauge":null,"nrw_gauge":null},{"id":"gfh7qb","seed_city":"Fort William","lat":56.824,"lon":-4.9713,"area":"Highland","region":"he","country":"Scotland","ea_gauge":null,"metar":null,"sepa_gauge":{"station_no":"115343","name":"Glen Nevis","ts_id":"51764010","lat":56.799232,"lon":-5.067543,"distance_km":6.5},"nrw_gauge":null},{"id":"gcuy0c","seed_city":"Glasgow","lat":55.9067,"lon":-4.5319,"area":"Renfrewshire","region":"st","country":"Scotland","ea_gauge":null,"metar":{"icao":"EGPF","distance_km":7.3},"sepa_gauge":{"station_no":"341380","name":"Killermont Raingauge","ts_id":"59193010","lat":55.911085,"lon":-4.305014,"distance_km":14.1},"nrw_gauge":null},{"id":"gcxdqn","seed_city":"Hull","lat":53.8687,"lon":-0.434,"area":"East Riding of Yorkshire","region":"yh","country":"England","ea_gauge":{"station_reference":"041238","lat":53.867134,"lon":-0.367439,"distance_km":4.4},"metar":{"icao":"EGNJ","distance_km":33.2},"sepa_gauge":null,"nrw_gauge":null},{"id":"gfjm2y","seed_city":"Inverness","lat":57.2086,"lon":-3.8287,"area":"Highland","region":"he","country":"Scotland","ea_gauge":null,"metar":{"icao":"EGPE","distance_km":39.4},"sepa_gauge":{"station_no":"234314","name":"Sluggan","ts_id":"58300010","lat":57.273998,"lon":-3.875997,"distance_km":7.8},"nrw_gauge":null},{"id":"gcwdje","seed_city":"Leeds","lat":53.8083,"lon":-1.8622,"area":"West Yorkshire","region":"yh","country":"England","ea_gauge":{"station_reference":"075497","lat":53.815189,"lon":-1.823015,"distance_km":2.7},"metar":{"icao":"EGNM","distance_km":14.7},"sepa_gauge":null,"nrw_gauge":null},{"id":"gcrws0","seed_city":"Lincoln","lat":53.1766,"lon":-0.5219,"area":"Lincolnshire","region":"em","country":"England","ea_gauge":{"station_reference":"E5721","lat":53.175194,"lon":-0.524002,"distance_km":0.2},"metar":{"icao":"EGXW","distance_km":1.2},"sepa_gauge":null,"nrw_gauge":null},{"id":"gctb66","seed_city":"Liverpool","lat":53.4952,"lon":-3.0597,"area":"Merseyside","region":"nw","country":"England","ea_gauge":{"station_reference":"550148","lat":53.410189,"lon":-3.10942,"distance_km":10.0},"metar":{"icao":"EGGP","distance_km":22.7},"sepa_gauge":null,"nrw_gauge":null},{"id":"gcpsvg","seed_city":"London-Heathrow","lat":51.4792,"lon":-0.4449,"area":"Greater London","region":"se","country":"England","ea_gauge":{"station_reference":"247540TP","lat":51.479469,"lon":-0.451216,"distance_km":0.4},"metar":{"icao":"EGLL","distance_km":1.2},"sepa_gauge":null,"nrw_gauge":null},{"id":"gcqr9c","seed_city":"Manchester","lat":53.3578,"lon":-2.3785,"area":"Cheshire East","region":"nw","country":"England","ea_gauge":{"station_reference":"560557","lat":53.431001,"lon":-2.352893,"distance_km":8.3},"metar":{"icao":"EGCC","distance_km":6.9},"sepa_gauge":null,"nrw_gauge":null},{"id":"gcy9j0","seed_city":"Newcastle","lat":55.0223,"lon":-1.8842,"area":"Northumberland","region":"ne","country":"England","ea_gauge":{"station_reference":"017220","lat":55.01952,"lon":-1.881881,"distance_km":0.3},"metar":{"icao":"EGNT","distance_km":12.4},"sepa_gauge":null,"nrw_gauge":null},{"id":"u12f6m","seed_city":"Norwich","lat":52.457,"lon":1.1591,"area":"Norfolk","region":"ee","country":"England","ea_gauge":{"station_reference":"E24756","lat":52.494069,"lon":1.157581,"distance_km":4.1},"metar":{"icao":"EGSH","distance_km":25.7},"sepa_gauge":null,"nrw_gauge":null},{"id":"gcrje9","seed_city":"Nottingham","lat":53.0063,"lon":-1.2469,"area":"Nottinghamshire","region":"em","country":"England","ea_gauge":{"station_reference":"3766","lat":53.005795,"lon":-1.251101,"distance_km":0.3},"metar":{"icao":"EGNX","distance_km":20.2},"sepa_gauge":null,"nrw_gauge":null},{"id":"gcpjxj","seed_city":"Oxford","lat":51.622,"lon":-1.0931,"area":"Oxfordshire","region":"se","country":"England","ea_gauge":{"station_reference":"264254TP","lat":51.617635,"lon":-1.115281,"distance_km":1.6},"metar":null,"sepa_gauge":null,"nrw_gauge":null},{"id":"gbujwt","seed_city":"Penzance","lat":50.2158,"lon":-5.3339,"area":"Cornwall","region":"sw","country":"England","ea_gauge":{"station_reference":"48102","lat":50.223298,"lon":-5.305022,"distance_km":2.2},"metar":null,"sepa_gauge":null,"nrw_gauge":null},{"id":"gbvn6n","seed_city":"Plymouth","lat":50.3531,"lon":-4.1254,"area":"Plymouth","region":"sw","country":"England","ea_gauge":{"station_reference":"47155","lat":50.416367,"lon":-4.126049,"distance_km":7.0},"metar":null,"sepa_gauge":null,"nrw_gauge":null},{"id":"gcwc40","seed_city":"Sheffield","lat":53.616,"lon":-1.6644,"area":"West Yorkshire","region":"yh","country":"England","ea_gauge":{"station_reference":"078922","lat":53.60567,"lon":-1.766463,"distance_km":6.8},"metar":{"icao":"EGNM","distance_km":27.8},"sepa_gauge":null,"nrw_gauge":null},{"id":"gcqh76","seed_city":"Shrewsbury","lat":52.7921,"lon":-2.6642,"area":"Shropshire","region":"wm","country":"England","ea_gauge":{"station_reference":"1121","lat":52.718322,"lon":-2.717219,"distance_km":8.9},"metar":{"icao":"EGOS","distance_km":0.7},"sepa_gauge":null,"nrw_gauge":null},{"id":"gcnfur","seed_city":"Southampton","lat":51.1496,"lon":-1.5656,"area":"Hampshire","region":"se","country":"England","ea_gauge":{"station_reference":"E13580","lat":51.103128,"lon":-1.562184,"distance_km":5.2},"metar":{"icao":"EGHI","distance_km":26.5},"sepa_gauge":null,"nrw_gauge":null},{"id":"gf7e0j","seed_city":"Stornoway","lat":58.2138,"lon":-6.3226,"area":"Na h-Eileanan Siar","region":"he","country":"Scotland","ea_gauge":null,"metar":{"icao":"EGPO","distance_km":0.5},"sepa_gauge":{"station_no":"234190","name":"Creed Bridge","ts_id":"57190010","lat":58.20454,"lon":-6.424228,"distance_km":6.0},"nrw_gauge":null},{"id":"gcxh27","seed_city":"York","lat":54.2038,"lon":-1.3898,"area":"North Yorkshire","region":"yh","country":"England","ea_gauge":{"station_reference":"054604","lat":54.32908,"lon":-1.456389,"distance_km":14.6},"metar":{"icao":"EGNV","distance_km":34.1},"sepa_gauge":null,"nrw_gauge":null}];
 
 const LON0 = -8.7, LAT1 = 59.65, KX = Math.cos(55.3 * Math.PI / 180), S = 57.5;
 const px = (lon, lat) => [(lon - LON0) * KX * S, (LAT1 - lat) * S];
 
-const cls = s => s.ea_gauge && s.metar ? "full" : s.ea_gauge ? "gauge" : s.metar ? "metar" : "only";
+// nearest live rain gauge across the three national networks (Cardiff has EA + NRW)
+const gaugeOf = s => {
+  const g = [
+    s.ea_gauge   && { net: "EA",   ref: s.ea_gauge.station_reference, km: s.ea_gauge.distance_km },
+    s.sepa_gauge && { net: "SEPA", ref: s.sepa_gauge.name,            km: s.sepa_gauge.distance_km },
+    s.nrw_gauge  && { net: "NRW",  ref: s.nrw_gauge.name,             km: s.nrw_gauge.distance_km },
+  ].filter(Boolean);
+  return g.length ? g.reduce((a, b) => (a.km <= b.km ? a : b)) : null;
+};
+
+const cls = s => gaugeOf(s) && s.metar ? "full" : gaugeOf(s) ? "gauge" : s.metar ? "metar" : "only";
 const CLASSES = {
   full:  { label: "Rain gauge + METAR", color: "var(--c-full)" },
   gauge: { label: "Rain gauge only",    color: "var(--c-gauge)" },
@@ -141,10 +152,10 @@ for (const s of STATIONS) {
   hit.setAttribute("cx", x); hit.setAttribute("cy", y); hit.setAttribute("r", 13);
   hit.setAttribute("class", "stn-hit");
   hit.addEventListener("mousemove", e => {
-    const g = s.ea_gauge, m = s.metar;
+    const g = gaugeOf(s), m = s.metar;
     tip.innerHTML = "<b>" + s.seed_city + "</b><br>" +
       "<span class='k'>station</span> " + s.id + " &middot; " + (s.area || "") + "<br>" +
-      "<span class='k'>gauge</span> " + (g ? g.station_reference + " (" + g.distance_km + " km)" : "&mdash;") + "<br>" +
+      "<span class='k'>gauge</span> " + (g ? g.net + " " + g.ref + " (" + g.km + " km)" : "&mdash;") + "<br>" +
       "<span class='k'>metar</span> " + (m ? m.icao + " (" + m.distance_km + " km)" : "&mdash;");
     const r = svg.getBoundingClientRect();
     tip.style.display = "block";
@@ -165,12 +176,12 @@ document.getElementById("leg").innerHTML = Object.entries(CLASSES)
 document.getElementById("rows").innerHTML = STATIONS
   .slice().sort((a, b) => a.seed_city.localeCompare(b.seed_city))
   .map(s => {
-    const g = s.ea_gauge, m = s.metar, k = cls(s);
+    const g = gaugeOf(s), m = s.metar, k = cls(s);
     return "<tr data-id='" + s.id + "'>" +
       "<td><span class='chip' style='background:" + CLASSES[k].color + "'></span>" + s.seed_city + "</td>" +
       "<td>" + (s.country || "") + "</td><td>" + (s.area || "") + "</td>" +
       "<td class='num'>" + s.id + "</td>" +
-      "<td class='num'>" + (g ? g.station_reference + " &middot; " + g.distance_km + " km" : "<span class='none'>&mdash;</span>") + "</td>" +
+      "<td class='num'>" + (g ? g.net + " " + g.ref + " &middot; " + g.km + " km" : "<span class='none'>&mdash;</span>") + "</td>" +
       "<td class='num'>" + (m ? m.icao + " &middot; " + m.distance_km + " km" : "<span class='none'>&mdash;</span>") + "</td></tr>";
   }).join("");
 

diff --git a/scripts/templates/station_map.html b/scripts/templates/station_map.html
@@ -60,8 +60,8 @@
   <header>
     <h1>UK forecast-verification stations</h1>
     <p>The 33 fixed locations in <code>data/stations.json</code>. Each is a health-checked Met Office
-       observing station, paired where possible with a live Environment Agency rain gauge
-       (amounts; England only) and a METAR airport (cross-check).</p>
+       observing station, paired where possible with a live rain gauge (amounts; EA in England,
+       SEPA in Scotland, NRW in Wales) and a METAR airport (cross-check).</p>
   </header>
   <div class="layout">
     <div class="card map-card">
@@ -72,8 +72,9 @@
       <div class="card">
         <h2>Paired sources</h2>
         <ul class="leg" id="leg"></ul>
-        <p class="note">Rain-gauge pairing is England-only for now (EA network); Scotland, Wales
-          and NI need SEPA / NRW equivalents. Shetland shown clipped &mdash; no station there yet.</p>
+        <p class="note">Rain gauges cover Great Britain (EA / SEPA / NRW networks, paired
+          2026-07-05); Northern Ireland has no free gauge API. Where a station has two gauges
+          the nearest is shown. Shetland shown clipped &mdash; no station there yet.</p>
       </div>
     </aside>
   </div>
@@ -81,7 +82,7 @@
     <table>
       <thead><tr>
         <th>Station</th><th>Nation</th><th>Area</th><th>ID</th>
-        <th>EA rain gauge</th><th>METAR</th>
+        <th>Rain gauge</th><th>METAR</th>
       </tr></thead>
       <tbody id="rows"></tbody>
     </table>
@@ -94,7 +95,17 @@ const STATIONS = __STATIONS__;
 const LON0 = -8.7, LAT1 = 59.65, KX = Math.cos(55.3 * Math.PI / 180), S = 57.5;
 const px = (lon, lat) => [(lon - LON0) * KX * S, (LAT1 - lat) * S];
 
-const cls = s => s.ea_gauge && s.metar ? "full" : s.ea_gauge ? "gauge" : s.metar ? "metar" : "only";
+// nearest live rain gauge across the three national networks (Cardiff has EA + NRW)
+const gaugeOf = s => {
+  const g = [
+    s.ea_gauge   && { net: "EA",   ref: s.ea_gauge.station_reference, km: s.ea_gauge.distance_km },
+    s.sepa_gauge && { net: "SEPA", ref: s.sepa_gauge.name,            km: s.sepa_gauge.distance_km },
+    s.nrw_gauge  && { net: "NRW",  ref: s.nrw_gauge.name,             km: s.nrw_gauge.distance_km },
+  ].filter(Boolean);
+  return g.length ? g.reduce((a, b) => (a.km <= b.km ? a : b)) : null;
+};
+
+const cls = s => gaugeOf(s) && s.metar ? "full" : gaugeOf(s) ? "gauge" : s.metar ? "metar" : "only";
 const CLASSES = {
   full:  { label: "Rain gauge + METAR", color: "var(--c-full)" },
   gauge: { label: "Rain gauge only",    color: "var(--c-gauge)" },
@@ -134,10 +145,10 @@ for (const s of STATIONS) {
   hit.setAttribute("cx", x); hit.setAttribute("cy", y); hit.setAttribute("r", 13);
   hit.setAttribute("class", "stn-hit");
   hit.addEventListener("mousemove", e => {
-    const g = s.ea_gauge, m = s.metar;
+    const g = gaugeOf(s), m = s.metar;
     tip.innerHTML = "<b>" + s.seed_city + "</b><br>" +
       "<span class='k'>station</span> " + s.id + " &middot; " + (s.area || "") + "<br>" +
-      "<span class='k'>gauge</span> " + (g ? g.station_reference + " (" + g.distance_km + " km)" : "&mdash;") + "<br>" +
+      "<span class='k'>gauge</span> " + (g ? g.net + " " + g.ref + " (" + g.km + " km)" : "&mdash;") + "<br>" +
       "<span class='k'>metar</span> " + (m ? m.icao + " (" + m.distance_km + " km)" : "&mdash;");
     const r = svg.getBoundingClientRect();
     tip.style.display = "block";
@@ -158,12 +169,12 @@ document.getElementById("leg").innerHTML = Object.entries(CLASSES)
 document.getElementById("rows").innerHTML = STATIONS
   .slice().sort((a, b) => a.seed_city.localeCompare(b.seed_city))
   .map(s => {
-    const g = s.ea_gauge, m = s.metar, k = cls(s);
+    const g = gaugeOf(s), m = s.metar, k = cls(s);
     return "<tr data-id='" + s.id + "'>" +
       "<td><span class='chip' style='background:" + CLASSES[k].color + "'></span>" + s.seed_city + "</td>" +
       "<td>" + (s.country || "") + "</td><td>" + (s.area || "") + "</td>" +
       "<td class='num'>" + s.id + "</td>" +
-      "<td class='num'>" + (g ? g.station_reference + " &middot; " + g.distance_km + " km" : "<span class='none'>&mdash;</span>") + "</td>" +
+      "<td class='num'>" + (g ? g.net + " " + g.ref + " &middot; " + g.km + " km" : "<span class='none'>&mdash;</span>") + "</td>" +
       "<td class='num'>" + (m ? m.icao + " &middot; " + m.distance_km + " km" : "<span class='none'>&mdash;</span>") + "</td></tr>";
   }).join("");
 